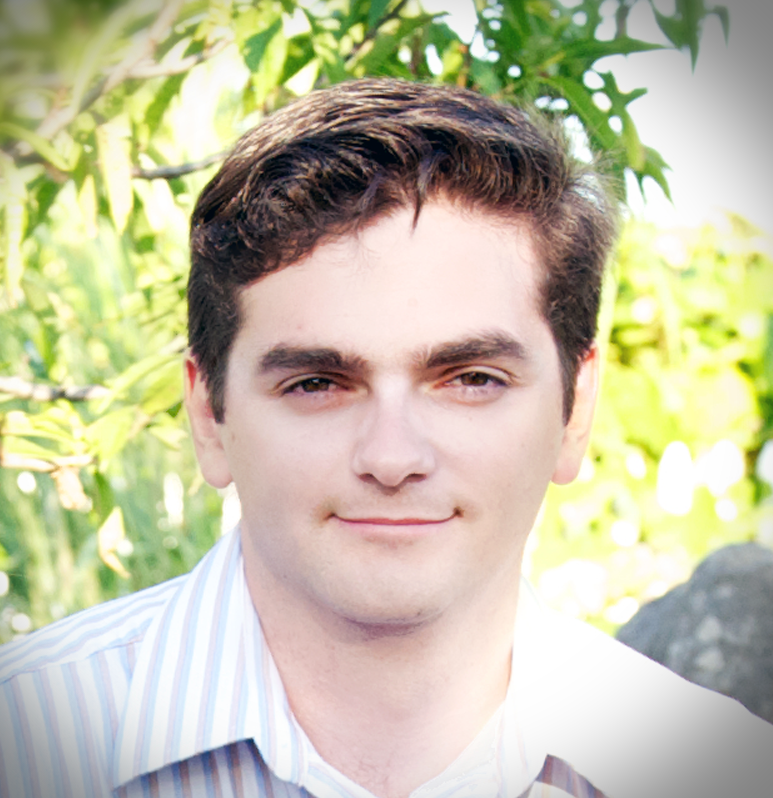
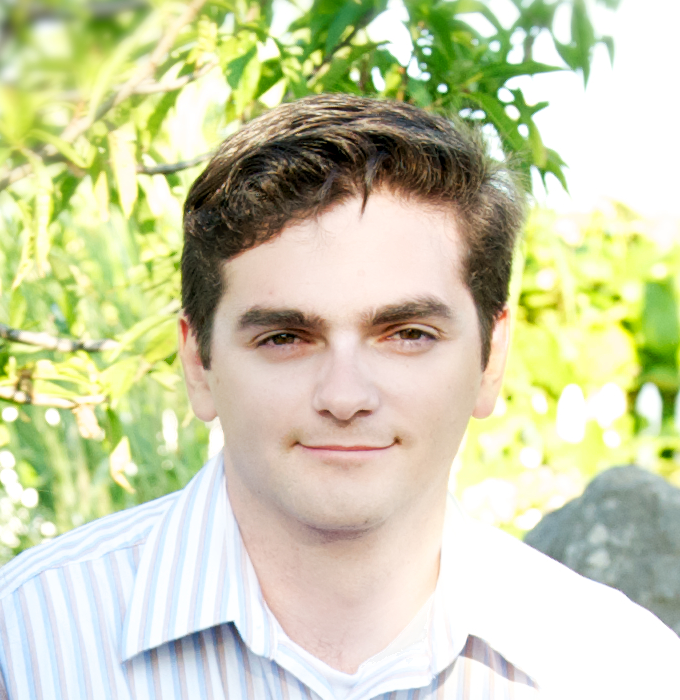
References Update
Added all of the references for the Week 2 assignment.  Also updated
the Favicon to the SVG and replaced the profile pic.

diff --git a/references.html b/references.html
@@ -1,127 +1,104 @@
 <!DOCTYPE html>
 <html lang="en">
-  <head>
-    <meta charset="utf-8">
-    <meta http-equiv="X-UA-Compatible" content="IE=edge">
-    <meta name="viewport" content="width=device-width, initial-scale=1">
-    <!-- The above 3 meta tags *must* come first in the head; any other head content must come *after* these tags -->
-    <meta name="description" content="">
-    <meta name="author" content="">
-    <link rel="icon" href="favicon.ico">
+<head>
+<meta charset="utf-8">
+<meta http-equiv="X-UA-Compatible" content="IE=edge">
+<meta name="viewport" content="width=device-width, initial-scale=1">
+<!-- The above 3 meta tags *must* come first in the head; any other head content must come *after* these tags -->
+<meta name="description" content="">
+<meta name="author" content="">
+<link rel="icon" href="favicon.ico">
+<title>References</title>
 
-    <title>References</title>
+<!-- Bootstrap core CSS -->
+<link href="css/bootstrap.min.css" rel="stylesheet">
 
-    <!-- Bootstrap core CSS -->
-    <link href="css/bootstrap.min.css" rel="stylesheet">
+<!-- Custom styles for this template -->
+<link href="css/main.css" rel="stylesheet">
 
-    <!-- Custom styles for this template -->
-    <link href="css/main.css" rel="stylesheet">
+<!-- Just for debugging purposes. Don't actually copy these 2 lines! -->
+<!--[if lt IE 9]><script src="../../assets/js/ie8-responsive-file-warning.js"></script><![endif]-->
+<script src="js/ie-emulation-modes-warning.js"></script>
 
-    <!-- Just for debugging purposes. Don't actually copy these 2 lines! -->
-    <!--[if lt IE 9]><script src="../../assets/js/ie8-responsive-file-warning.js"></script><![endif]-->
-    <script src="js/ie-emulation-modes-warning.js"></script>
-
-    <!-- HTML5 shim and Respond.js for IE8 support of HTML5 elements and media queries -->
-    <!--[if lt IE 9]>
+<!-- HTML5 shim and Respond.js for IE8 support of HTML5 elements and media queries -->
+<!--[if lt IE 9]>
       <script src="https://oss.maxcdn.com/html5shiv/3.7.2/html5shiv.min.js"></script>
       <script src="https://oss.maxcdn.com/respond/1.4.2/respond.min.js"></script>
     <![endif]-->
-  </head>
+</head>
 
-  <body>
-
-    <nav class="navbar navbar-inverse navbar-fixed-top">
-      <div class="container">
-        <div class="navbar-header">
-          <button type="button" class="navbar-toggle collapsed" data-toggle="collapse" data-target="#navbar" aria-expanded="false" aria-controls="navbar">
-            <span class="sr-only">Toggle navigation</span>
-            <span class="icon-bar"></span>
-            <span class="icon-bar"></span>
-            <span class="icon-bar"></span>
-          </button>
-          <a class="navbar-brand" href="index.html">Process Modeling and Analysis</a>
-        </div>
-        <div id="navbar" class="collapse navbar-collapse">
-          <ul class="nav navbar-nav">
-            <li ><a href="introduction.html">Introduction</a></li>
-            
-            <li class="dropdown">
-          		<a href="#" class="dropdown-toggle" data-toggle="dropdown" role="button" aria-haspopup="true" aria-expanded="false">Analysis <span class="caret"></span></a>
-              <ul class="dropdown-menu inverse-dropdown">
-                <li><a href="proposed-business-model.html">Proposed Business Model</a></li>
-                <li><a href="business-process-analysis.html">Business Process Analysis</a></li>
-                <li><a href="pricing-analysis.html">Pricing Analysis</a></li>
-                
-              </ul>
-            </li>
-            
+<body>
+<nav class="navbar navbar-inverse navbar-fixed-top">
+  <div class="container">
+    <div class="navbar-header">
+      <button type="button" class="navbar-toggle collapsed" data-toggle="collapse" data-target="#navbar" aria-expanded="false" aria-controls="navbar"> <span class="sr-only">Toggle navigation</span> <span class="icon-bar"></span> <span class="icon-bar"></span> <span class="icon-bar"></span> </button>
+      <a class="navbar-brand" href="index.html">Process Modeling and Analysis</a> </div>
+    <div id="navbar" class="collapse navbar-collapse">
+      <ul class="nav navbar-nav">
+        <li ><a href="introduction.html">Introduction</a></li>
+        <li class="dropdown"> <a href="#" class="dropdown-toggle" data-toggle="dropdown" role="button" aria-haspopup="true" aria-expanded="false">Analysis <span class="caret"></span></a>
+          <ul class="dropdown-menu inverse-dropdown">
+            <li><a href="proposed-business-model.html">Proposed Business Model</a></li>
+            <li><a href="business-process-analysis.html">Business Process Analysis</a></li>
+            <li><a href="pricing-analysis.html">Pricing Analysis</a></li>
           </ul>
-          <ul class="nav navbar-nav navbar-right">
-          	<li class="active"><a href="Reverences.html">References</a></li>
-          	<li><a href="contributors.html">Contributors</a></li>
-          </ul>
-        </div><!--/.nav-collapse -->
-      </div>
-    </nav>
-
-    <div class="container">
-
-      <div class="page-header"> <!--  "starter-template" style="background-color:#CDCDCD"-->
-        <h1>References</h1>
-        <p class="lead"></p>
-        
-        
-      </div>
-
-    </div><!-- /.container -->
-    
-	<div class="container">
-    
-   	  <div class="row">
-        	<div class="col-md-7 col-md-offset-3">
-            <p class="reference" style="text-indent:-0.5in" >Branson, B. (n.d.). <em>An African American woman working at her desk</em> [Photograph]. Retrieved from <a href="http://www.freestockphotos.biz/stockphoto/17340"> http://www.freestockphotos.biz/stockphoto/17340</a></p>
-  <p class="reference" >ConceptDraw Samples | Business processes — Flow charts. (n.d.). Retrieved from <a href="http://conceptdraw.com/samples/business-process-diagrams-flow-charts">http://conceptdraw.com/samples/business-process-diagrams-flow-charts</a></p>
-    <p class="reference" >Cost Analysis in Evaluation. (n.d.). Retrieved from <a href="http://ag.arizona.edu/sfcs/cyfernet/cyfar/Costben2.htm">http://ag.arizona.edu/sfcs/cyfernet/cyfar/Costben2.htm</a></p>
-    
-    <p class="reference"> <em>Oracle Utilities Customer Care and Billing.</em> (2012).</p>
-
-  <p class="reference" >Reh, F. J. (n.d.). Cost Benefit Analysis. Retrieved from <a href="http://management.about.com/cs/money/a/CostBenefit.htm">http://management.about.com/cs/money/a/CostBenefit.htm</a></p>
-  <p class="reference" >Sokolowski, J. A., &amp; Banks, C. M. (2012). <em>Handbook of real-world applications in modeling and simulation</em> [Vital Source].</p>
-  <p class="reference" >Tsui, S. (2012, October 5). At the frontier of technology and business: Effective Decision Making [Web log post]. Retrieved from <a href="http://stantsui.blogspot.com/2012/10/effective-decision-making.html">http://stantsui.blogspot.com/2012/10/effective-decision-making.html</a></p>
-  <p class="reference" >Zuzu. (2008, May 26). [Elster A3 Alpha Type A30 electricity meter collector]. Retrieved from <a href="https://commons.wikimedia.org/wiki/File:Elster_A3_Alpha_Type_A30_electricity_meter_collector.jpeg">https://commons.wikimedia.org/wiki/File:Elster_A3_Alpha_Type_A30_electricity_meter_collector.jpeg</a></p>
-            	
-                 
-
-
-    		</div>
-            
-        </div>
-        
-        <hr>
-
-      <footer>
-        <div class="row">
-        	<div class="col-md-3">
-            	<p>&copy; Peter Empey 2015</p>
-            </div>
-            <div class="col-md-3 col-md-offset-6">
-            	<p class="text-right">Full Sail University | BIN-630</p>
-            </div>
-            
-        </div>
-      </footer>
+        </li>
+      </ul>
+      <ul class="nav navbar-nav navbar-right">
+        <li class="active"><a href="Reverences.html">References</a></li>
+        <li><a href="contributors.html">Contributors</a></li>
+      </ul>
     </div>
+    <!--/.nav-collapse --> 
+  </div>
+</nav>
+<div class="container">
+  <div class="page-header"> <!--  "starter-template" style="background-color:#CDCDCD"-->
+    <h1>References</h1>
+    <p class="lead"></p>
+  </div>
+</div>
+<!-- /.container -->
 
-        
+<div class="container">
+  <div class="row">
+    <div class="col-md-7 col-md-offset-3">
+      <p class="reference" style="text-indent:-0.5in" >Branson, B. (n.d.). <em>An African American woman working at her desk</em> [Photograph]. Retrieved from <a href="http://www.freestockphotos.biz/stockphoto/17340"> http://www.freestockphotos.biz/stockphoto/17340</a></p>
+      <p class="reference">Business Process Analysis. (n.d.). Retrieved from <a href="http://www.netmba.com/operations/process/analysis/">http://www.netmba.com/operations/process/analysis/</a></p>
+      <p class="reference" >Business Prototyping Blog. (n.d.). Retrieved from <a href="https://www.business-prototyping.com/step-by-step-tutorials/introduction-to-system-dynamics/">https://www.business-prototyping.com/step-by-step-tutorials/introduction-to-system-dynamics/</a></p>
+      <p class="reference" >ConceptDraw Samples | Business processes — Flow charts. (n.d.). Retrieved from <a href="http://conceptdraw.com/samples/business-process-diagrams-flow-charts">http://conceptdraw.com/samples/business-process-diagrams-flow-charts</a></p>
+      <p class="reference" >Cost Analysis in Evaluation. (n.d.). Retrieved from <a href="http://ag.arizona.edu/sfcs/cyfernet/cyfar/Costben2.htm">http://ag.arizona.edu/sfcs/cyfernet/cyfar/Costben2.htm</a></p>
+      <p class="reference">Kirkwood, C. W. (1998). System Dynamics Methods: A Quick Introduction. Retrieved from Arizona State University website: <a href="http://www.public.asu.edu/~kirkwood/sysdyn/SDIntro/SDIntro.htm">http://www.public.asu.edu/~kirkwood/sysdyn/SDIntro/SDIntro.htm</a></p>
+      <p class="reference"> <em>Oracle Utilities Customer Care and Billing.</em> (2012).</p>
+      <p class="reference" >Reh, F. J. (n.d.). Cost Benefit Analysis. Retrieved from <a href="http://management.about.com/cs/money/a/CostBenefit.htm">http://management.about.com/cs/money/a/CostBenefit.htm</a></p>
+      <p class="reference" >Sokolowski, J. A., &amp; Banks, C. M. (2012). <em>Handbook of real-world applications in modeling and simulation</em> [Vital Source].</p>
+      <p class="reference">Toole, T. M. (2005). A PROJECT MANAGEMENT CAUSAL LOOP DIAGRAM. Retrieved from <a href="http://www.facstaff.bucknell.edu/ttoole/Toole%20PM%20Causal%20Loop%20Diagram.pdf">http://www.facstaff.bucknell.edu/ttoole/Toole%20PM%20Causal%20Loop%20Diagram.pdf</a></p>
+      <p class="reference">System Dynamics | Intro. (n.d.). Retrieved from <a href="http://www.systemdynamics.org/DL-IntroSysDyn/stock.htm">http://www.systemdynamics.org/DL-IntroSysDyn/stock.htm</a></p>
+      <p class="reference">Translating Systems Thinking Diagrams (STD/CLD) to Stock &amp; Flow Diagrams. (n.d.). Retrieved from <a href="http://www.systems-thinking.org/stsf/stsf.htm">http://www.systems-thinking.org/stsf/stsf.htm</a></p>
+      <p class="reference" >Tsui, S. (2012, October 5). At the frontier of technology and business: Effective Decision Making [Web log post]. Retrieved from <a href="http://stantsui.blogspot.com/2012/10/effective-decision-making.html">http://stantsui.blogspot.com/2012/10/effective-decision-making.html</a></p>
+      <p class="reference" >Zuzu. (2008, May 26). [Elster A3 Alpha Type A30 electricity meter collector]. Retrieved from <a href="https://commons.wikimedia.org/wiki/File:Elster_A3_Alpha_Type_A30_electricity_meter_collector.jpeg">https://commons.wikimedia.org/wiki/File:Elster_A3_Alpha_Type_A30_electricity_meter_collector.jpeg</a></p>
+    </div>
+  </div>
+  <hr>
+  <footer>
+    <div class="row">
+      <div class="col-md-3">
+        <p>&copy; Peter Empey 2015</p>
+      </div>
+      <div class="col-md-3 col-md-offset-6">
+        <p class="text-right">Full Sail University | BIN-630</p>
+      </div>
+    </div>
+  </footer>
+</div>
 
-        
-    <!-- Bootstrap core JavaScript
-    ================================================== -->
-    <!-- Placed at the end of the document so the pages load faster -->
-    <script src="https://ajax.googleapis.com/ajax/libs/jquery/1.11.3/jquery.min.js"></script>
-    <script>window.jQuery || document.write('<script src="js/vendor/jquery.min.js"><\/script>')</script>
-    <script src="js/bootstrap.min.js"></script>
-    <!-- IE10 viewport hack for Surface/desktop Windows 8 bug -->
-    <script src="js/ie10-viewport-bug-workaround.js"></script>
-  </body>
+<!-- Bootstrap core JavaScript
+    ================================================== --> 
+<!-- Placed at the end of the document so the pages load faster --> 
+<script src="https://ajax.googleapis.com/ajax/libs/jquery/1.11.3/jquery.min.js"></script> 
+<script>window.jQuery || document.write('<script src="js/vendor/jquery.min.js"><\/script>')</script> 
+<script src="js/bootstrap.min.js"></script> 
+<!-- IE10 viewport hack for Surface/desktop Windows 8 bug --> 
+<script src="js/ie10-viewport-bug-workaround.js"></script>
+</body>
 </html>

diff --git a/contributors.html b/contributors.html
@@ -7,7 +7,7 @@
     <!-- The above 3 meta tags *must* come first in the head; any other head content must come *after* these tags -->
     <meta name="description" content="">
     <meta name="author" content="">
-    <link rel="icon" href="favicon.ico">
+    <link rel="icon" href="images/Icon.svg">
 
     <title>Project Site | Contributors</title>
 
@@ -108,7 +108,7 @@
             <div class="col-md-offset-0 col-md-5">
             	
                 
-            <img class="img-responsive" src="images/headshot.png"  alt=""/> </div>
+            <img class="img-responsive img-circle" src="images/headshot.png"  alt=""/> </div>
         </div>
         
         

diff --git a/index.html b/index.html
@@ -7,7 +7,7 @@
     <!-- The above 3 meta tags *must* come first in the head; any other head content must come *after* these tags -->
     <meta name="description" content="A Project site for Masters of Science in Busniness Intelligence from Full Sail University">
     <meta name="author" content="Peter Empey">
-    <link rel="icon" href="favicon.ico">
+    <link rel="icon" href="images/Icon.svg">
 
     <title>Peter Empey's Project Site</title>
 

diff --git a/business-process-analysis.html b/business-process-analysis.html
@@ -7,7 +7,7 @@
     <!-- The above 3 meta tags *must* come first in the head; any other head content must come *after* these tags -->
     <meta name="description" content="">
     <meta name="author" content="">
-    <link rel="icon" href="favicon.ico">
+    <link rel="icon" href="images/Icon.svg">
 
     <title>Business Model Analysis</title>
 

diff --git a/pricing-analysis.html b/pricing-analysis.html
@@ -7,7 +7,7 @@
     <!-- The above 3 meta tags *must* come first in the head; any other head content must come *after* these tags -->
     <meta name="description" content="">
     <meta name="author" content="">
-    <link rel="icon" href="favicon.ico">
+    <link rel="icon" href="images/Icon.svg">
 
     <title>Priceing Analysis</title>
 

diff --git a/introduction.html b/introduction.html
@@ -7,7 +7,7 @@
     <!-- The above 3 meta tags *must* come first in the head; any other head content must come *after* these tags -->
     <meta name="description" content="">
     <meta name="author" content="">
-    <link rel="icon" href="favicon.ico">
+    <link rel="icon" href="images/Icon.svg">
 
     <title>Introduction</title>
 
